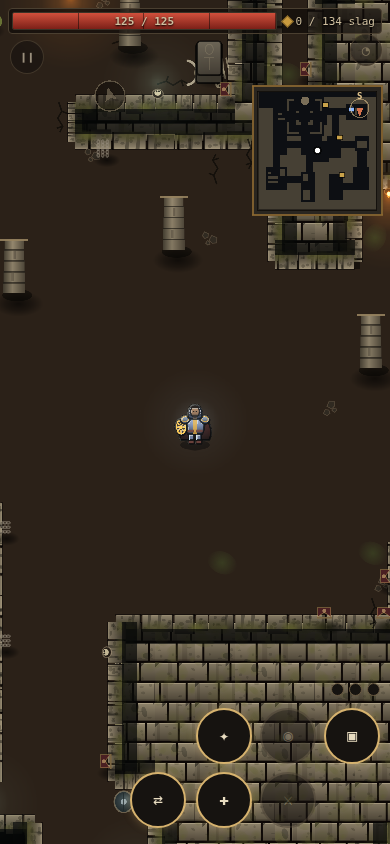
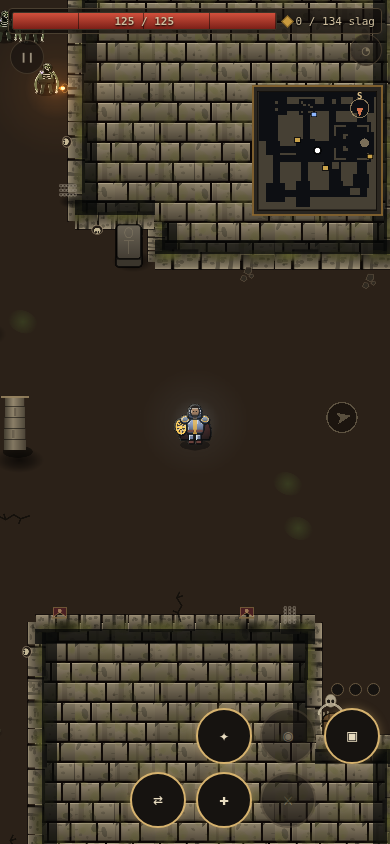
Cut the delve to the edge of the map, and shrink the hole in its middle
"Can we make the levels have more space, there is a lot of dead space that
could be used." Two kinds of it, both measured before anything moved.

THE RIM. MARGIN is rock kept between a room and the edge of its leaf, so two
rooms in neighbouring leaves are not cut into one. At the OUTSIDE of the map
there is no neighbouring leaf -- there is the end of the world, and all that is
needed there is a course of rock to draw a wall on. Two cells were kept anyway,
on top of the one the split already leaves, so every delve was cut inside a
three-cell dead border: the floor spanned cells 3 to 46 of fifty, which is 77%
of the map by area and a hundred and twenty units of nothing on every side.
Rooms may now sit against the wall course. carveRect already refuses cells 0
and GW-1, so the wall is kept whatever this asks for.

    floor spans      cells 3-46   ->   1-48      (77% of the map -> 92%)
    open ground      44%          ->   52%
    open cells       1179         ->   1252

THE HOLE IN THE MIDDLE. No pack may stand within PACK_SAFE of the spawn, and
the spawn is the centre of the map, so that radius punches a disc out of every
delve. At 430 units -- more than a phone screen's width -- it was a fifth of
the floor, and it is the fifth you start in and walk out through. 360 still
means you can see the nearest pack from where you land and it cannot see you.
Coffers come 250 units in rather than 320, so the ground you cross on the way
[…]

diff --git a/index.html b/index.html
@@ -1698,7 +1698,13 @@ let MAX_ENEMIES     = 340;   // measured: population is ~0.4ms of update at any
 // The delve is populated at generation time and cleared by walking into it,
 // rather than having waves pushed at the player forever. Packs sit dormant
 // until something wakes them, so pressure comes from what you walk into.
-const PACK_SAFE     = 430;   // no pack closer than this to the spawn pocket
+// No pack closer than this to the spawn pocket. It was 430 -- more than a
+// phone screen's width -- and with the spawn at the centre of the map that
+// emptied a fifth of every delve's floor, the fifth you start in and walk out
+// through. It is the dead space you notice, because it is the first thing you
+// see. Three hundred and sixty still means you can see the nearest pack from
+// where you land and it cannot see you.
+const PACK_SAFE     = 360;
 const PACK_APART    = 250;   // minimum spacing between pack sites
 // Slag placed on the map, as a multiple of the level's own quota. A fixed
 // budget was the old shape and it made the deep ladder unwinnable: the quota
@@ -1718,7 +1724,13 @@ const ALERT_DELAY   = 0.18;  // ...one beat later, so a pack rouses in sequence
 // Applied to bodies AWAKE it gives the same wall of meat in front of you and
 // leaves the delve full behind it. Past the cap a pack still rouses when you
 // walk into it; what stops is the chain running on across the map.
-const HORDE_LIVE    = 54;
+// Opening the delve to the rim gave it a fifth more floor, and floor is the
+// horde's ally: the cap on bodies AWAKE did not move, but on open ground far
+// more of the same fifty-four actually reach you instead of piling up behind
+// rock. Measured on the reference player, the same delves went from three in
+// ten ending at the gate to under two. The cap comes down by what the floor
+// went up, so more room to fight in does not quietly mean more to fight.
+const HORDE_LIVE    = 46;
 const ELITE_CHANCE  = 0.16;  // share of packs led by a branded champion
 // Odds a pack site gets pitch beside it. Lives here with the other placement
 // knobs rather than down with the scenery it describes, because buildLevels
@@ -2867,15 +2879,33 @@ function carveHalls() {
   // twenty-eight by twenty-seven that swallowed a quarter of the map each, and
   // the result read as open ground with rocks in it rather than as rooms. A
   // large leaf now holds a normal room with a lot of rock around it.
+  /* MARGIN is rock kept between a room and the edge of its leaf, so that two
+   * rooms in neighbouring leaves are not cut into one. At the OUTSIDE of the
+   * map there is no neighbouring leaf -- there is the end of the world -- and
+   * the only thing needed there is a course of rock to draw a wall on. Two
+   * cells were being kept anyway, on top of the one the split already leaves,
+   * so every delve was cut inside a three-cell dead border: measured, the
+   * floor of a delve spanned cells 3 to 46 of fifty, which is 77% of the map
+   * by area and a hundred and twenty units of nothing on every side.
+   *
+   * No margin at all at the rim, MARGIN everywhere else: carveRect already
+   * refuses cells 0 and GW-1, so the course of rock the wall is drawn on is
+   * kept whatever this asks for. The floor of a delve spans 1 to 48 now.
+   */
+  const RIM = 0;
   const halls = [];
   for (const L of leaves) {
-    const maxW = Math.min(MAXR, L.w - MARGIN * 2);
-    const maxH = Math.min(MAXR, L.h - MARGIN * 2);
+    const mL = L.x <= 1 ? RIM : MARGIN;
+    const mT = L.y <= 1 ? RIM : MARGIN;
+    const mR = L.x + L.w >= GW - 1 ? RIM : MARGIN;
+    const mB = L.y + L.h >= GH - 1 ? RIM : MARGIN;
+    const maxW = Math.min(MAXR, L.w - mL - mR);
+    const maxH = Math.min(MAXR, L.h - mT - mB);
     if (maxW < MINR || maxH < MINR) continue;
     const w = MINR + ((Math.random() * (maxW - MINR + 1)) | 0);
     const h = MINR + ((Math.random() * (maxH - MINR + 1)) | 0);
-    const x = L.x + MARGIN + ((Math.random() * (L.w - MARGIN * 2 - w + 1)) | 0);
-    const y = L.y + MARGIN + ((Math.random() * (L.h - MARGIN * 2 - h + 1)) | 0);
+    const x = L.x + mL + ((Math.random() * (L.w - mL - mR - w + 1)) | 0);
+    const y = L.y + mT + ((Math.random() * (L.h - mT - mB - h + 1)) | 0);
     carveRect(x, y, x + w - 1, y + h - 1);
     halls.push({ x, y, w, h, cx: x + (w >> 1), cy: y + (h >> 1) });
   }
@@ -4388,7 +4418,10 @@ const CHEST_ROW = { coffer: 0, warded: 1 };
 const CHEST_OPEN = 0.45;        // seconds the lid takes to come up
 let chestImg = null;
 const CHEST_REACH = 30;
-const CHEST_SAFE  = 320;    // never this near the spawn pocket
+// Never this near the spawn pocket -- but near enough that the ground you
+// cross on the way out has something in it. A coffer in the approach is the
+// cheapest thing that turns walking into exploring.
+const CHEST_SAFE  = 250;
 const CHEST_APART = 300;    // nor this near each other
 
 // Every coffer in a delve, opened, comes to about a third of what the whole

diff --git a/phaser/public/core.js b/phaser/public/core.js
@@ -49,7 +49,13 @@ let MAX_ENEMIES     = 340;   // measured: population is ~0.4ms of update at any
 // The delve is populated at generation time and cleared by walking into it,
 // rather than having waves pushed at the player forever. Packs sit dormant
 // until something wakes them, so pressure comes from what you walk into.
-const PACK_SAFE     = 430;   // no pack closer than this to the spawn pocket
+// No pack closer than this to the spawn pocket. It was 430 -- more than a
+// phone screen's width -- and with the spawn at the centre of the map that
+// emptied a fifth of every delve's floor, the fifth you start in and walk out
+// through. It is the dead space you notice, because it is the first thing you
+// see. Three hundred and sixty still means you can see the nearest pack from
+// where you land and it cannot see you.
+const PACK_SAFE     = 360;
 const PACK_APART    = 250;   // minimum spacing between pack sites
 // Slag placed on the map, as a multiple of the level's own quota. A fixed
 // budget was the old shape and it made the deep ladder unwinnable: the quota
@@ -69,7 +75,13 @@ const ALERT_DELAY   = 0.18;  // ...one beat later, so a pack rouses in sequence
 // Applied to bodies AWAKE it gives the same wall of meat in front of you and
 // leaves the delve full behind it. Past the cap a pack still rouses when you
 // walk into it; what stops is the chain running on across the map.
-const HORDE_LIVE    = 54;
+// Opening the delve to the rim gave it a fifth more floor, and floor is the
+// horde's ally: the cap on bodies AWAKE did not move, but on open ground far
+// more of the same fifty-four actually reach you instead of piling up behind
+// rock. Measured on the reference player, the same delves went from three in
+// ten ending at the gate to under two. The cap comes down by what the floor
+// went up, so more room to fight in does not quietly mean more to fight.
+const HORDE_LIVE    = 46;
 const ELITE_CHANCE  = 0.16;  // share of packs led by a branded champion
 // Odds a pack site gets pitch beside it. Lives here with the other placement
 // knobs rather than down with the scenery it describes, because buildLevels
@@ -1218,15 +1230,33 @@ function carveHalls() {
   // twenty-eight by twenty-seven that swallowed a quarter of the map each, and
   // the result read as open ground with rocks in it rather than as rooms. A
   // large leaf now holds a normal room with a lot of rock around it.
+  /* MARGIN is rock kept between a room and the edge of its leaf, so that two
+   * rooms in neighbouring leaves are not cut into one. At the OUTSIDE of the
+   * map there is no neighbouring leaf -- there is the end of the world -- and
+   * the only thing needed there is a course of rock to draw a wall on. Two
+   * cells were being kept anyway, on top of the one the split already leaves,
+   * so every delve was cut inside a three-cell dead border: measured, the
+   * floor of a delve spanned cells 3 to 46 of fifty, which is 77% of the map
+   * by area and a hundred and twenty units of nothing on every side.
+   *
+   * No margin at all at the rim, MARGIN everywhere else: carveRect already
+   * refuses cells 0 and GW-1, so the course of rock the wall is drawn on is
+   * kept whatever this asks for. The floor of a delve spans 1 to 48 now.
+   */
+  const RIM = 0;
   const halls = [];
   for (const L of leaves) {
-    const maxW = Math.min(MAXR, L.w - MARGIN * 2);
-    const maxH = Math.min(MAXR, L.h - MARGIN * 2);
+    const mL = L.x <= 1 ? RIM : MARGIN;
+    const mT = L.y <= 1 ? RIM : MARGIN;
+    const mR = L.x + L.w >= GW - 1 ? RIM : MARGIN;
+    const mB = L.y + L.h >= GH - 1 ? RIM : MARGIN;
+    const maxW = Math.min(MAXR, L.w - mL - mR);
+    const maxH = Math.min(MAXR, L.h - mT - mB);
     if (maxW < MINR || maxH < MINR) continue;
     const w = MINR + ((Math.random() * (maxW - MINR + 1)) | 0);
     const h = MINR + ((Math.random() * (maxH - MINR + 1)) | 0);
-    const x = L.x + MARGIN + ((Math.random() * (L.w - MARGIN * 2 - w + 1)) | 0);
-    const y = L.y + MARGIN + ((Math.random() * (L.h - MARGIN * 2 - h + 1)) | 0);
+    const x = L.x + mL + ((Math.random() * (L.w - mL - mR - w + 1)) | 0);
+    const y = L.y + mT + ((Math.random() * (L.h - mT - mB - h + 1)) | 0);
     carveRect(x, y, x + w - 1, y + h - 1);
     halls.push({ x, y, w, h, cx: x + (w >> 1), cy: y + (h >> 1) });
   }
@@ -2692,7 +2722,10 @@ const CHEST_ROW = { coffer: 0, warded: 1 };
 const CHEST_OPEN = 0.45;        // seconds the lid takes to come up
 let chestImg = null;
 const CHEST_REACH = 30;
-const CHEST_SAFE  = 320;    // never this near the spawn pocket
+// Never this near the spawn pocket -- but near enough that the ground you
+// cross on the way out has something in it. A coffer in the approach is the
+// cheapest thing that turns walking into exploring.
+const CHEST_SAFE  = 250;
 const CHEST_APART = 300;    // nor this near each other
 
 // Every coffer in a delve, opened, comes to about a third of what the whole

diff --git a/phaser/src/core/core.js b/phaser/src/core/core.js
@@ -49,7 +49,13 @@ let MAX_ENEMIES     = 340;   // measured: population is ~0.4ms of update at any
 // The delve is populated at generation time and cleared by walking into it,
 // rather than having waves pushed at the player forever. Packs sit dormant
 // until something wakes them, so pressure comes from what you walk into.
-const PACK_SAFE     = 430;   // no pack closer than this to the spawn pocket
+// No pack closer than this to the spawn pocket. It was 430 -- more than a
+// phone screen's width -- and with the spawn at the centre of the map that
+// emptied a fifth of every delve's floor, the fifth you start in and walk out
+// through. It is the dead space you notice, because it is the first thing you
+// see. Three hundred and sixty still means you can see the nearest pack from
+// where you land and it cannot see you.
+const PACK_SAFE     = 360;
 const PACK_APART    = 250;   // minimum spacing between pack sites
 // Slag placed on the map, as a multiple of the level's own quota. A fixed
 // budget was the old shape and it made the deep ladder unwinnable: the quota
@@ -69,7 +75,13 @@ const ALERT_DELAY   = 0.18;  // ...one beat later, so a pack rouses in sequence
 // Applied to bodies AWAKE it gives the same wall of meat in front of you and
 // leaves the delve full behind it. Past the cap a pack still rouses when you
 // walk into it; what stops is the chain running on across the map.
-const HORDE_LIVE    = 54;
+// Opening the delve to the rim gave it a fifth more floor, and floor is the
+// horde's ally: the cap on bodies AWAKE did not move, but on open ground far
+// more of the same fifty-four actually reach you instead of piling up behind
+// rock. Measured on the reference player, the same delves went from three in
+// ten ending at the gate to under two. The cap comes down by what the floor
+// went up, so more room to fight in does not quietly mean more to fight.
+const HORDE_LIVE    = 46;
 const ELITE_CHANCE  = 0.16;  // share of packs led by a branded champion
 // Odds a pack site gets pitch beside it. Lives here with the other placement
 // knobs rather than down with the scenery it describes, because buildLevels
@@ -1218,15 +1230,33 @@ function carveHalls() {
   // twenty-eight by twenty-seven that swallowed a quarter of the map each, and
   // the result read as open ground with rocks in it rather than as rooms. A
   // large leaf now holds a normal room with a lot of rock around it.
+  /* MARGIN is rock kept between a room and the edge of its leaf, so that two
+   * rooms in neighbouring leaves are not cut into one. At the OUTSIDE of the
+   * map there is no neighbouring leaf -- there is the end of the world -- and
+   * the only thing needed there is a course of rock to draw a wall on. Two
+   * cells were being kept anyway, on top of the one the split already leaves,
+   * so every delve was cut inside a three-cell dead border: measured, the
+   * floor of a delve spanned cells 3 to 46 of fifty, which is 77% of the map
+   * by area and a hundred and twenty units of nothing on every side.
+   *
+   * No margin at all at the rim, MARGIN everywhere else: carveRect already
+   * refuses cells 0 and GW-1, so the course of rock the wall is drawn on is
+   * kept whatever this asks for. The floor of a delve spans 1 to 48 now.
+   */
+  const RIM = 0;
   const halls = [];
   for (const L of leaves) {
-    const maxW = Math.min(MAXR, L.w - MARGIN * 2);
-    const maxH = Math.min(MAXR, L.h - MARGIN * 2);
+    const mL = L.x <= 1 ? RIM : MARGIN;
+    const mT = L.y <= 1 ? RIM : MARGIN;
+    const mR = L.x + L.w >= GW - 1 ? RIM : MARGIN;
+    const mB = L.y + L.h >= GH - 1 ? RIM : MARGIN;
+    const maxW = Math.min(MAXR, L.w - mL - mR);
+    const maxH = Math.min(MAXR, L.h - mT - mB);
     if (maxW < MINR || maxH < MINR) continue;
     const w = MINR + ((Math.random() * (maxW - MINR + 1)) | 0);
     const h = MINR + ((Math.random() * (maxH - MINR + 1)) | 0);
-    const x = L.x + MARGIN + ((Math.random() * (L.w - MARGIN * 2 - w + 1)) | 0);
-    const y = L.y + MARGIN + ((Math.random() * (L.h - MARGIN * 2 - h + 1)) | 0);
+    const x = L.x + mL + ((Math.random() * (L.w - mL - mR - w + 1)) | 0);
+    const y = L.y + mT + ((Math.random() * (L.h - mT - mB - h + 1)) | 0);
     carveRect(x, y, x + w - 1, y + h - 1);
     halls.push({ x, y, w, h, cx: x + (w >> 1), cy: y + (h >> 1) });
   }
@@ -2692,7 +2722,10 @@ const CHEST_ROW = { coffer: 0, warded: 1 };
 const CHEST_OPEN = 0.45;        // seconds the lid takes to come up
 let chestImg = null;
 const CHEST_REACH = 30;
-const CHEST_SAFE  = 320;    // never this near the spawn pocket
+// Never this near the spawn pocket -- but near enough that the ground you
+// cross on the way out has something in it. A coffer in the approach is the
+// cheapest thing that turns walking into exploring.
+const CHEST_SAFE  = 250;
 const CHEST_APART = 300;    // nor this near each other
 
 // Every coffer in a delve, opened, comes to about a third of what the whole

diff --git a/tools/suites/terrain.js b/tools/suites/terrain.js
@@ -278,6 +278,67 @@ const pass=[],fail=[]; const ck=(n,ok,note)=>(ok?pass:fail).push((ok?'':'x ')+n+
   ck('and a forged one still stands in until it lands', art.forged);
   ck('tombs are actually scattered', art.tombs > 0, art.tombs+' in one cut');
 
+  /* --- HOW MUCH OF THE MAP THE DELVE ACTUALLY USES -----------------------
+   * Two kinds of dead space, both measured before they were changed and both
+   * asserted here so they cannot creep back:
+   *
+   *   the RIM -- rooms were kept two cells inside a leaf and the leaves start
+   *   one cell in, so every delve was cut inside a three-cell dead border and
+   *   the floor spanned cells 3 to 46 of fifty: 77% of the map by area, with a
+   *   hundred and twenty units of nothing on every side.
+   *
+   *   the SPAWN VOID -- no pack may stand within PACK_SAFE of the spawn, and
+   *   the spawn is the centre of the map, so that radius empties a disc out of
+   *   the middle of every delve. At 430 units it was a fifth of the floor, and
+   *   it is the fifth you start in and walk out through.
+   */
+  const space = await p.evaluate(() => {
+    const cuts = [];
+    for (let n = 0; n < 8; n++) {
+      stash = blankStash(); saveStash();
+      startRun('isaac', LEVELS[[0, 12, 26, 40][n % 4]].id, 'riven');
+      let minx = 1e9, maxx = -1, miny = 1e9, maxy = -1, open = 0, void_ = 0;
+      let rimOpen = 0;
+      for (let cy = 0; cy < GH; cy++) for (let cx = 0; cx < GW; cx++) {
+        if (cellAt(cx, cy) === SOLID) continue;
+        open++;
+        if (cx === 0 || cy === 0 || cx === GW - 1 || cy === GH - 1) rimOpen++;
+        if (cx < minx) minx = cx; if (cx > maxx) maxx = cx;
+        if (cy < miny) miny = cy; if (cy > maxy) maxy = cy;
+        const x = cx * CELL_W + CELL_W / 2, y = cy * CELL_W + CELL_W / 2;
+        if (Math.hypot(x - WORLD.w / 2, y - WORLD.h / 2) < PACK_SAFE) void_++;
+      }
+      cuts.push({ margin: Math.max(minx, miny, GW - 1 - maxx, GH - 1 - maxy),
+                  openPct: Math.round(100 * open / (GW * GH)),
+                  voidPct: Math.round(100 * void_ / open),
+                  rimOpen });
+    }
+    const med = k => cuts.map(c => c[k]).sort((a, b) => a - b)[cuts.length >> 1];
+    return { margin: med('margin'), worstMargin: Math.max(...cuts.map(c => c.margin)),
+             openPct: med('openPct'), voidPct: med('voidPct'),
+             rimOpen: cuts.reduce((a, c) => a + c.rimOpen, 0),
+             PACK_SAFE, cuts: cuts.length };
+  });
+  // The MEDIAN of the widest side, not the worst of the worst. A leaf at the
+  // edge that came out too small to hold a room leaves that one side short,
+  // which is the generator working as written -- taking the maximum over four
+  // sides and eight cuts measures that instead of the border, and swung
+  // between two and five cells on consecutive runs. Before the rim was opened
+  // this sat at three, every cut, every side.
+  ck('the delve is cut to the edge of the map, not inside a border',
+     space.margin <= 2,
+     'median dead border over ' + space.cuts + ' cuts: ' + space.margin +
+     ' cell' + (space.margin === 1 ? '' : 's') + ', worst side ' + space.worstMargin);
+  // The control. A rim of solid rock is what the wall is drawn on, so "cut to
+  // the edge" must stop one cell short of it and not one cell past.
+  ck('but the outermost course is still rock for the wall to stand on',
+     space.rimOpen === 0, space.rimOpen + ' open cells on the world edge');
+  ck('and more than half the map is floor', space.openPct >= 46,
+     space.openPct + '% open');
+  ck('the pack-free ground around the spawn is not a fifth of the delve',
+     space.voidPct <= 17,
+     space.voidPct + '% of the floor inside PACK_SAFE ' + space.PACK_SAFE);
+
   ck('no console errors', errs.length===0, errs.slice(0,3).join(' | '));
   console.log('\nPASS '+pass.length+'\n  '+pass.join('\n  '));
   console.log('\nFAIL '+fail.length+(fail.length?'\n  '+fail.join('\n  '):''));
